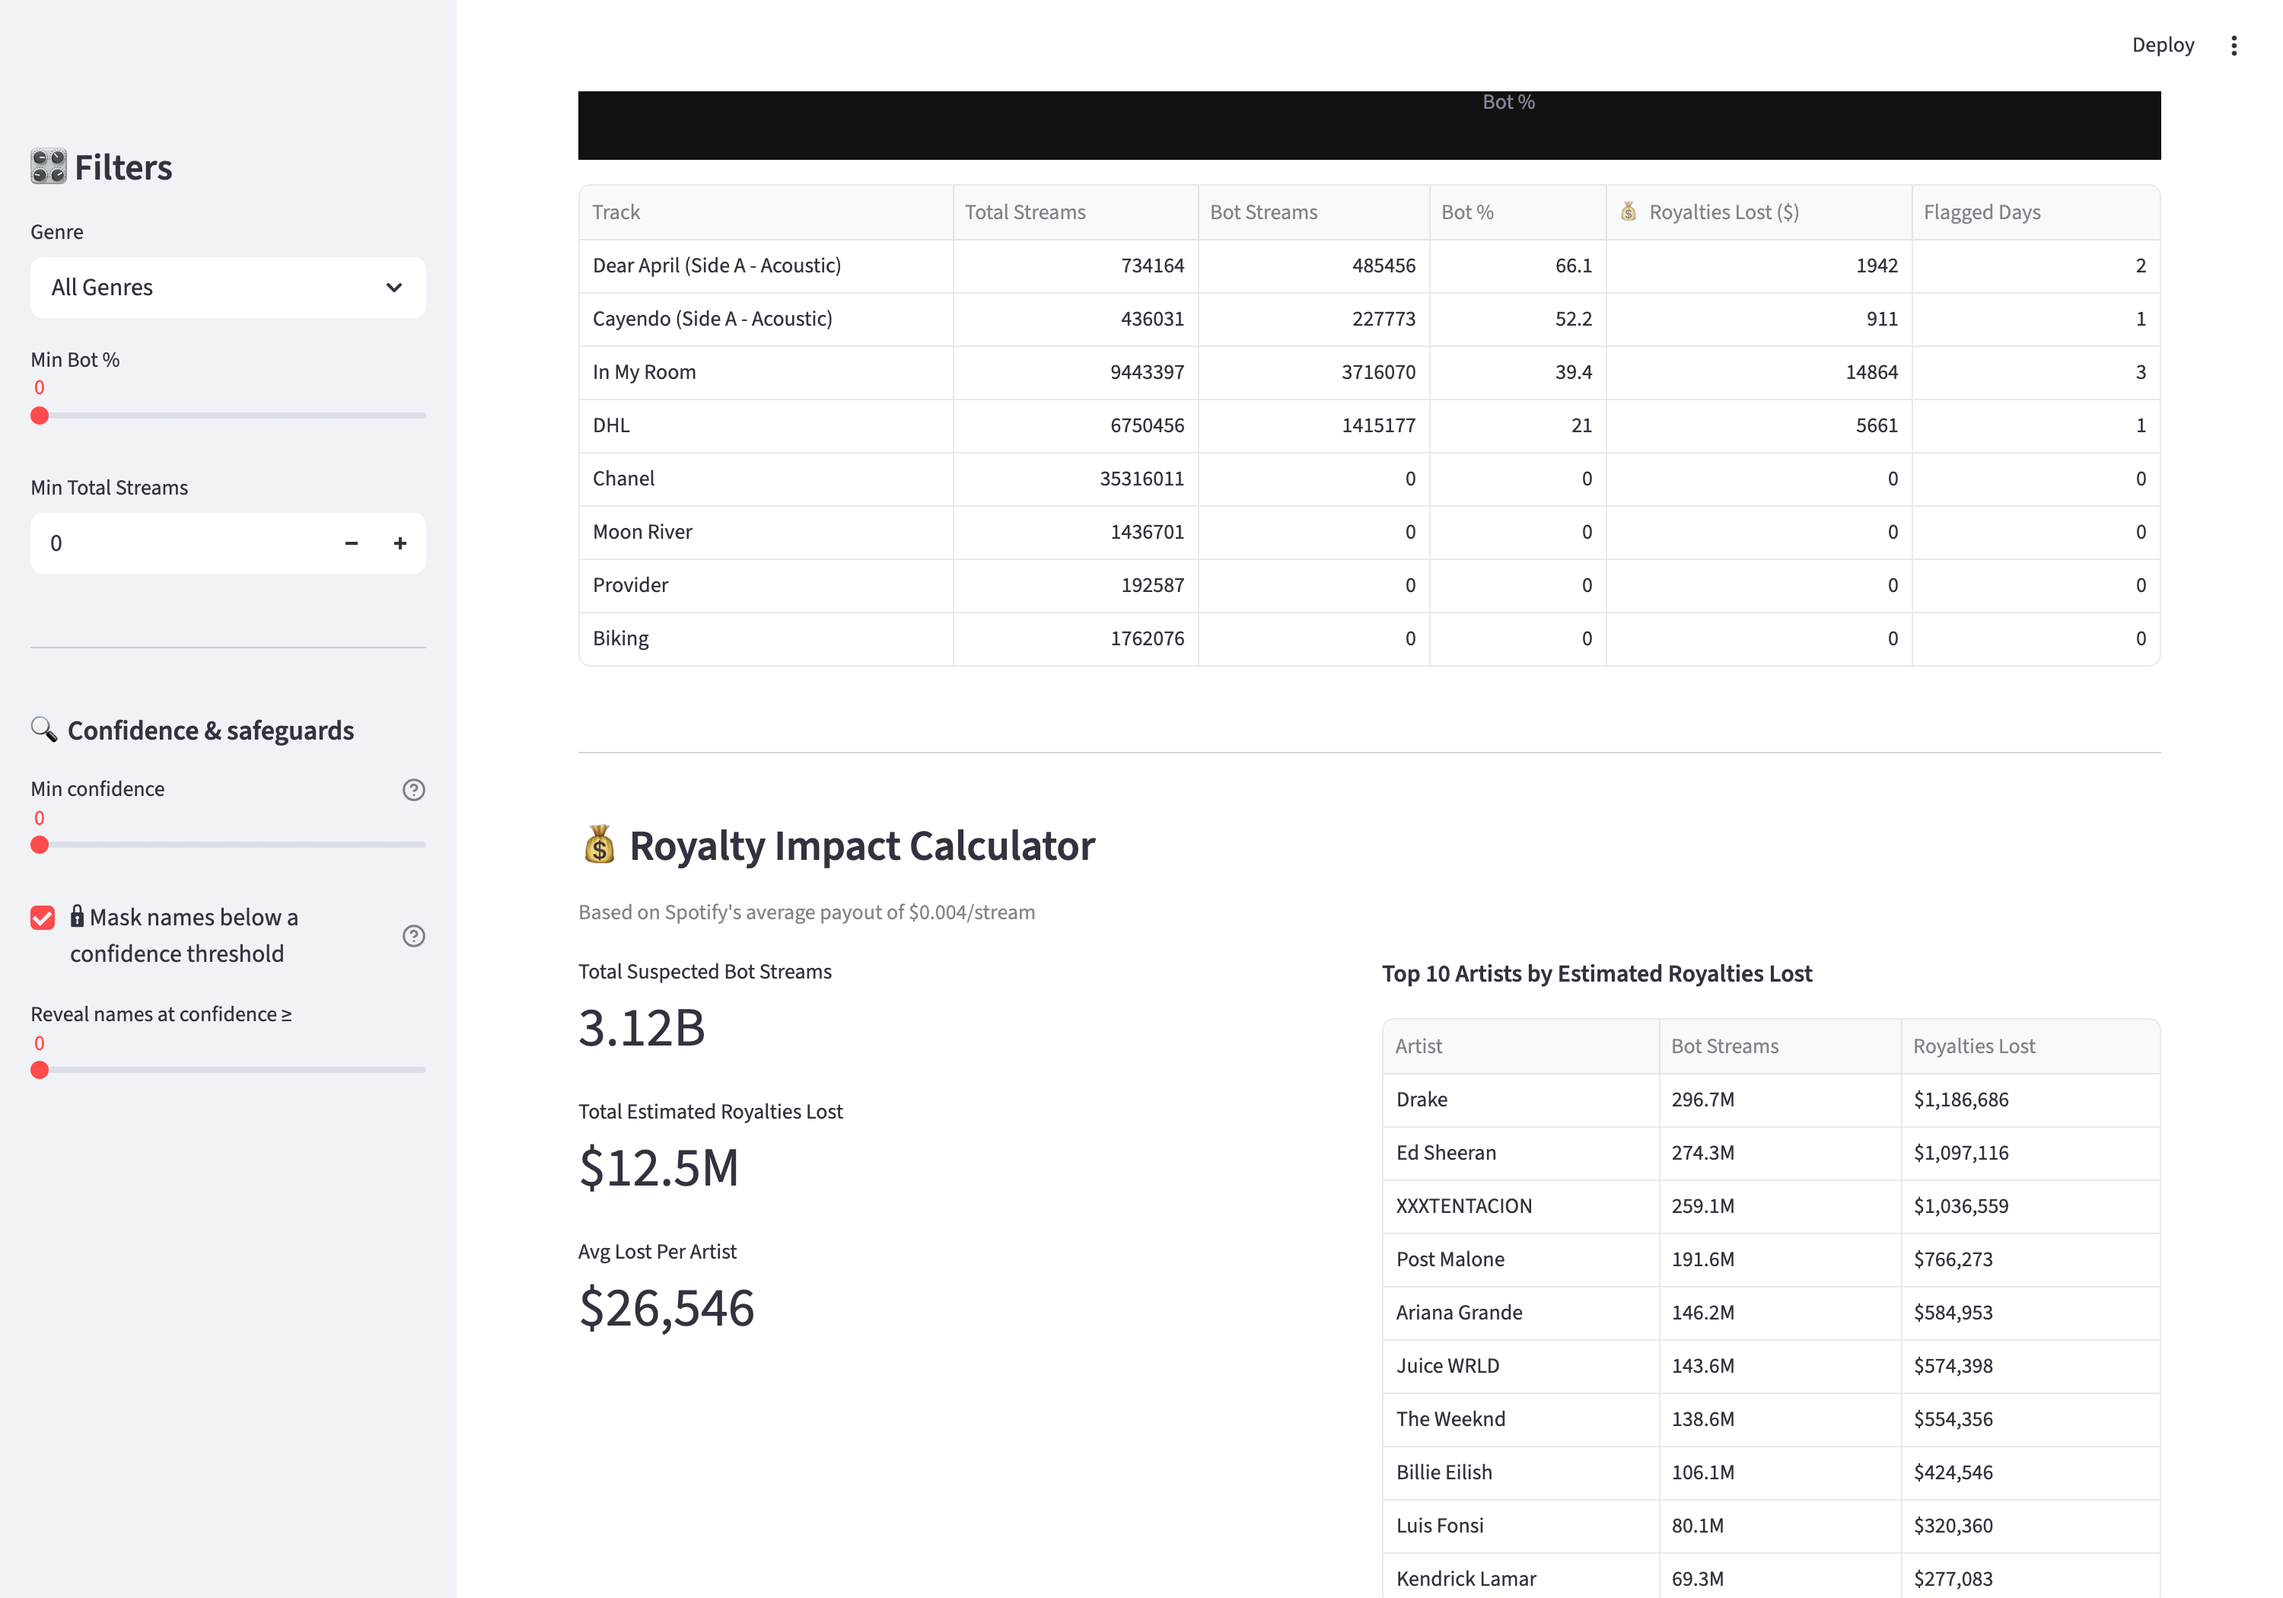
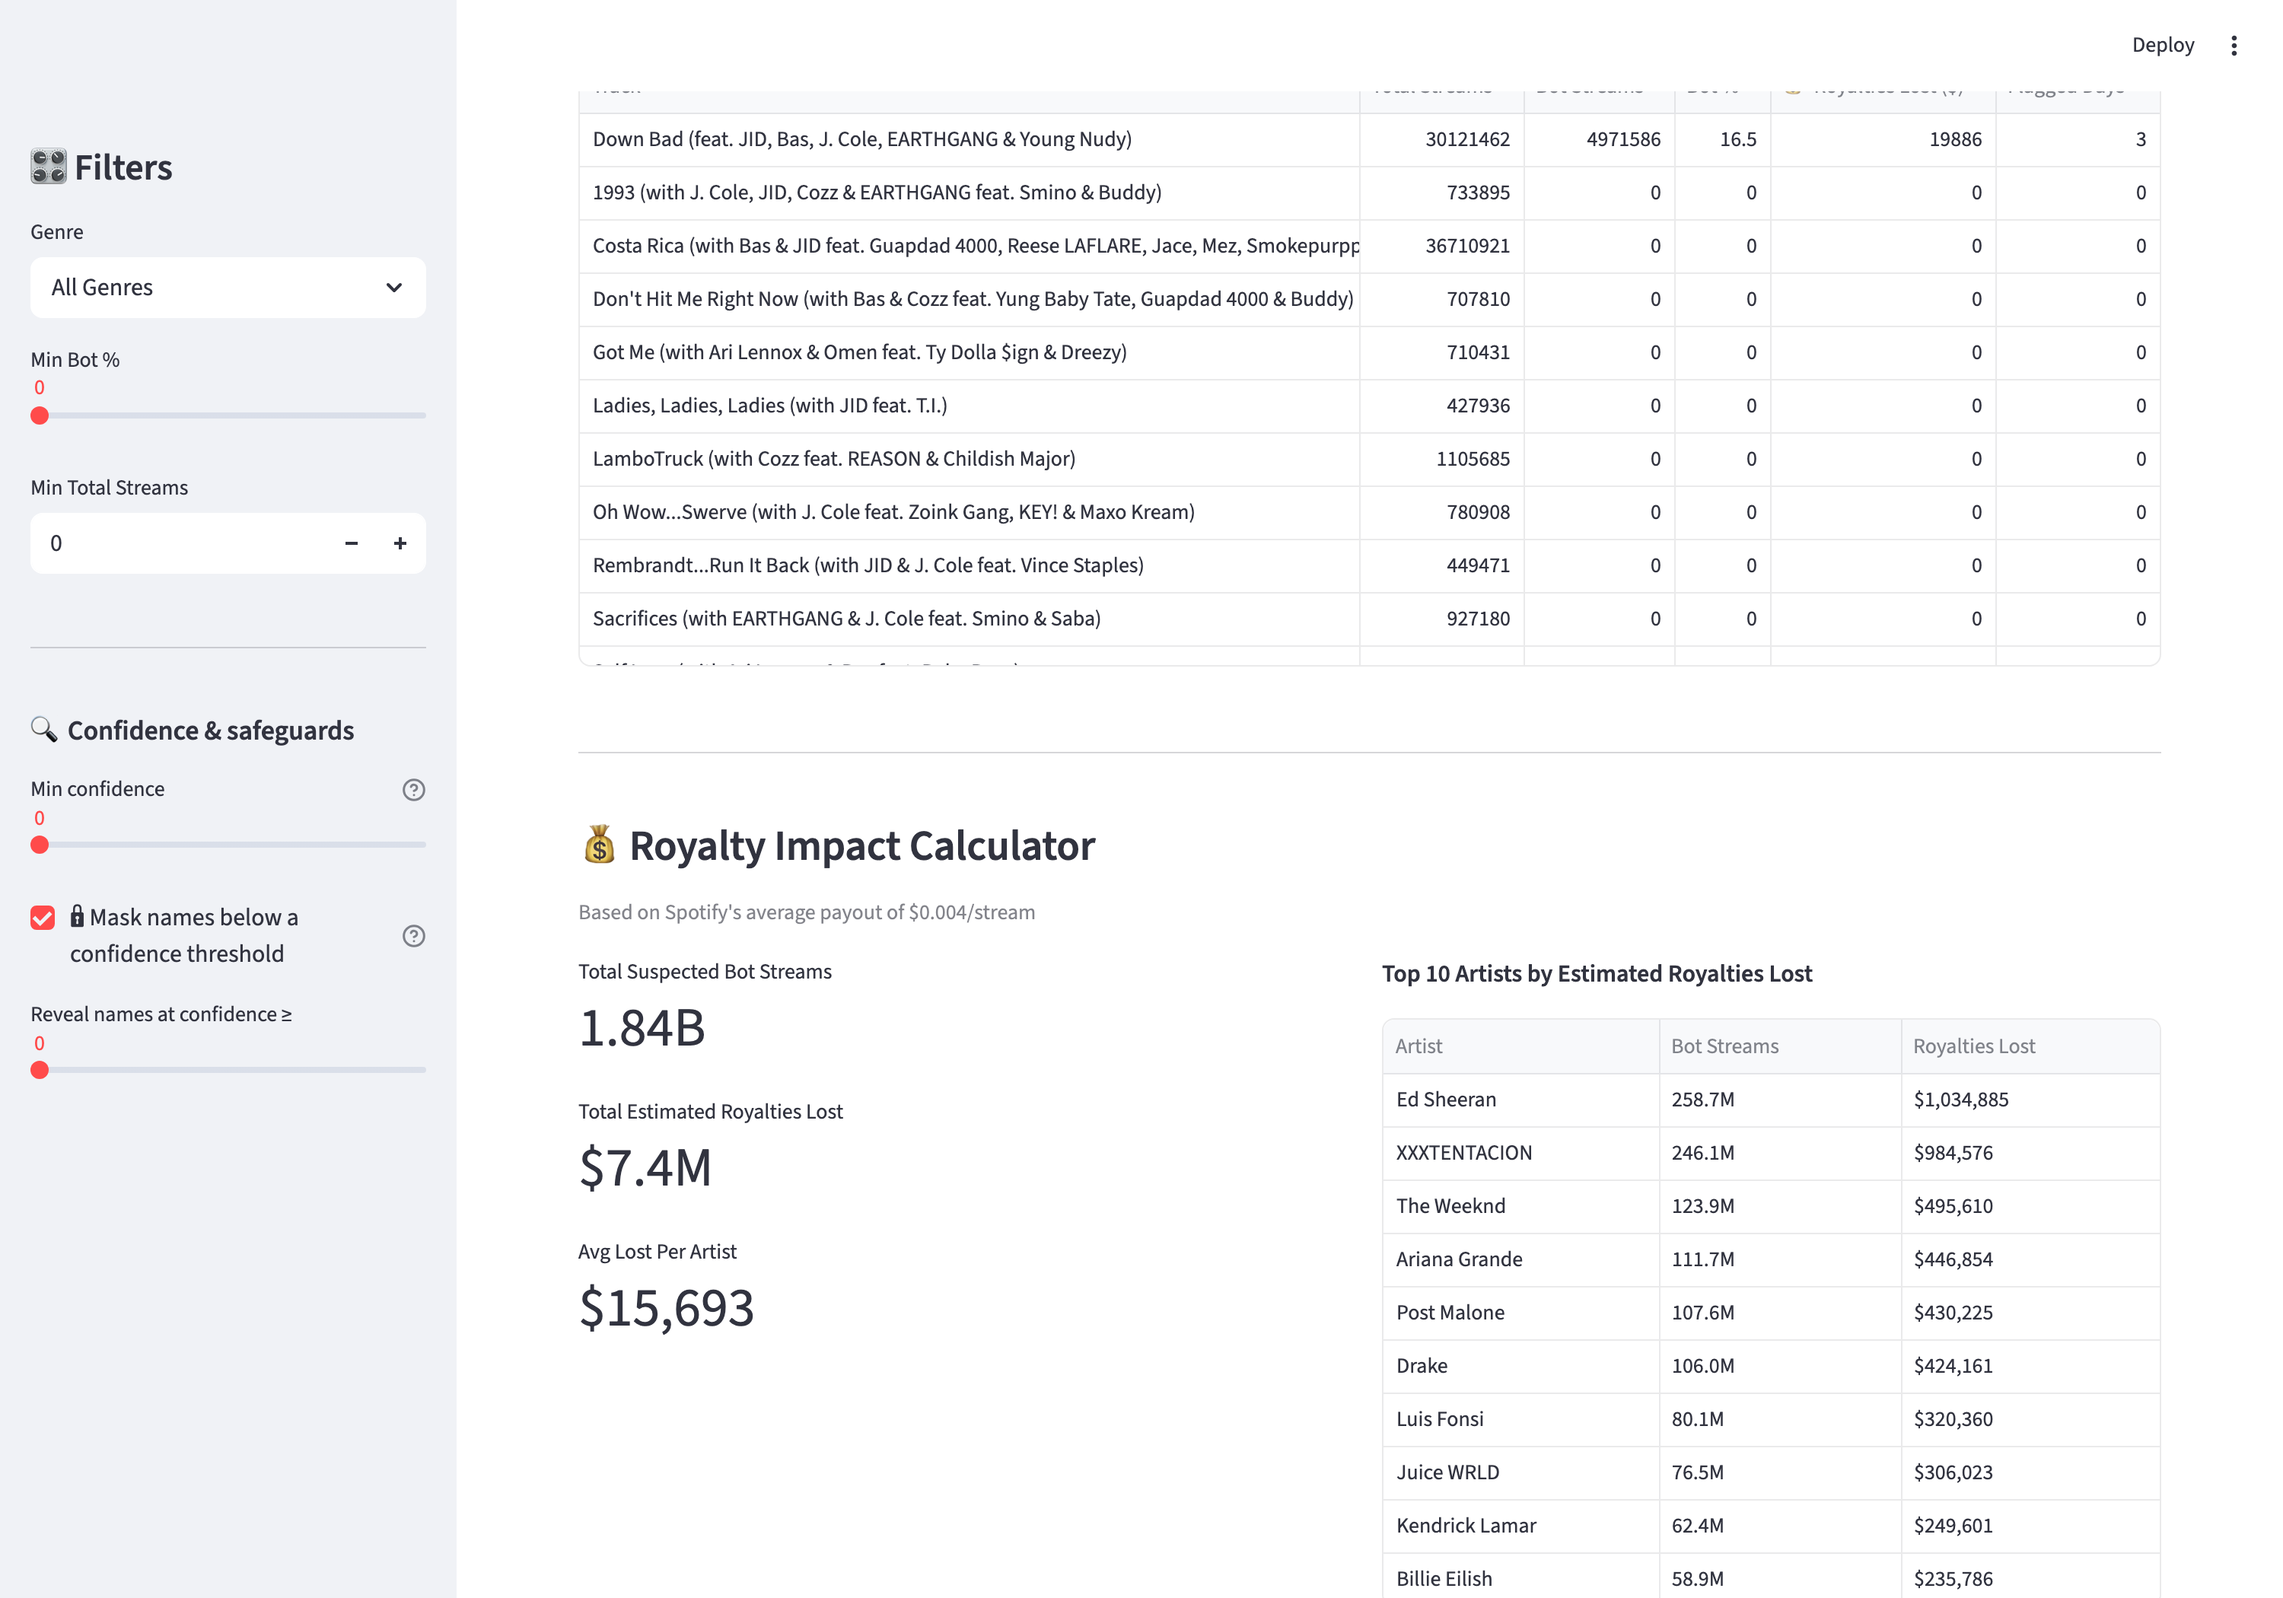
Consistency: fix 16M+ subtitle, refresh stale tune + dashboard artifacts
- app.py subtitle: "26M+" -> "16M+ real Spotify chart rows" (the pipeline scans
  16.2M raw rows -> 494K US/Global daily records; matches the honest figure).
- Regenerate tune_contamination.* against the current pipeline (release +
  causal-seasonal confounders): 0.02 now peaks documented-artist median
  percentile at 93 (AUC 0.94); ROADMAP tune finding updated to match.
- Refresh docs/ dashboard screenshots: now reflect the release confounder
  (leaderboard reshuffled, avg bot % and est. royalties lost drop to the
  less-inflated $7.4M).
- eval_report.json restored to the canonical 0.02 run (tune had left it on the
  last sweep value).

diff --git a/app.py b/app.py
@@ -67,7 +67,7 @@ artists_df, tracks_df, genres_df, rw_df, charts_df = load_data()
 
 # ── HEADER ──
 st.title("🎵 Spotify Stream Fraud Detector")
-st.markdown("Detecting bot-driven stream manipulation using anomaly detection on 26M+ real Spotify chart entries.")
+st.markdown("Detecting bot-driven stream manipulation using anomaly detection on 16M+ real Spotify chart rows.")
 st.divider()
 
 # ── SIDEBAR ──

diff --git a/ROADMAP.md b/ROADMAP.md
@@ -25,10 +25,11 @@ now lives.
 - [x] **Justify / tune the anomaly rate.** All constants moved to `config.py`.
   `tune.py` sweeps `contamination` and reports the effect on flagged fraction
   and documented-artist ranks (`tune_contamination.png/.csv`).
-  *Finding: lower contamination ranks the documented artists higher — so the
-  default was changed from 0.03 to **0.02** (median percentile 78→86, AUC
-  0.80→0.87). 0.01 is tighter still (~91 / ~0.89) but flags very little; 0.02 is
-  the balance point.*
+  *Finding: lower contamination ranks the documented artists higher, so the
+  default was changed from 0.03 to **0.02** — which (with the confounders below)
+  peaks the documented-artist median percentile at 93 with AUC 0.94. 0.01 nudges
+  AUC to ~0.94 but flags almost nothing (0.07% of days); 0.02 is the balance
+  point.*
 
 ## Tier 2 — A pipeline, not 3 scripts
 
